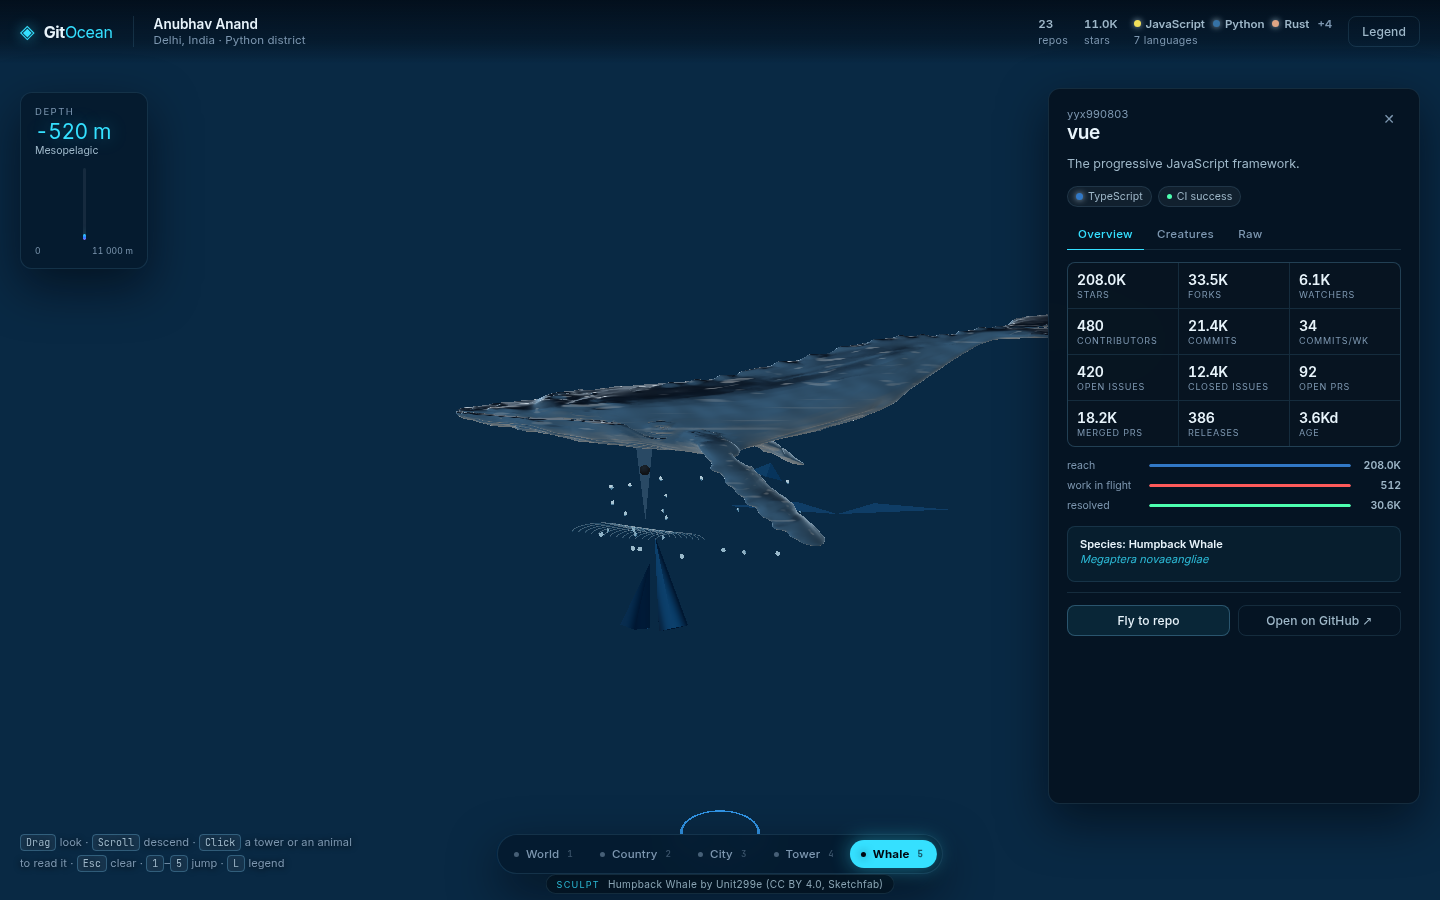
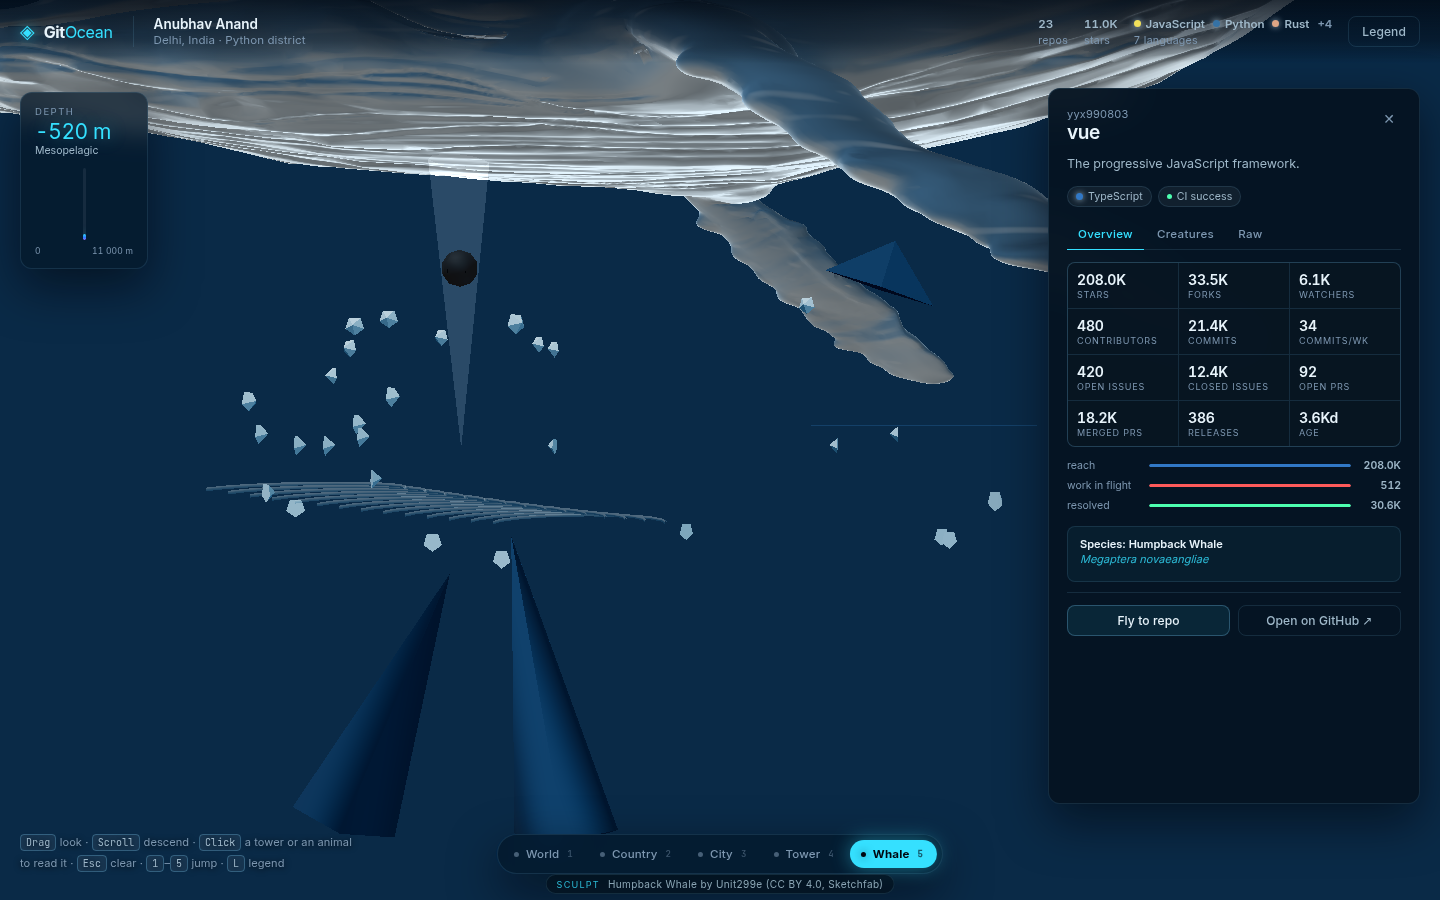
fix(camera): solve the whale framing against the animal, not the tower
The whale zoom has been wrong in four different ways, each found by measuring the
live scene rather than by looking at it. Every one produced a frame that read as
"a small animal in a very large nothing" or "a foreshortened back", never an
error.

1. The level's `height` was double-counted. `py` added `height` to `focus.y` and
   then subtracted `sin(pitch) * dist * 0.55` from that sum, so an authored rise
   was applied twice. On the vue entry: focus 71.0 + rise 9.33 gave an eye at
   137.8 against a body at 74.4 — 63 units above a 48-unit animal, 17 degrees
   down.

2. `height` and `focusY` were merged with `Math.max` against the level's
   authored numbers. A level's numbers are heights above y = 0 for a subject of
   ordinary size; a follow target's are a rise and an aim measured from the
   subject. Taking the larger of two unrelated references is a category error.

3. A floor at y = 4 was written when every subject sat near y = 0. A language
   colony at y = -4,200 would have had the camera teleported to +4. ky measured a
   36.8-degree down angle purely because its orbit dips to -13 and the clamp
   lifted the eye.

4. `_follow()` solved the lens distance against the frame's HEIGHT and added the
   tower's orbit radius: 268 units of lens for a 48.8-unit animal, 2.8
   body-lengths of empty water on every side. Now solved against the frame's
   WIDTH — the axis a broadside animal actually lies along — with a clearance
[…]

diff --git a/src/world/CameraRig.js b/src/world/CameraRig.js
@@ -212,11 +212,17 @@ export class CameraRig {
     const fov = a.fov + (b.fov - a.fov) * ease;
     const distance = a.distance + (b.distance - a.distance) * ease;
     let height = a.height + (b.height - a.height) * ease;
-    // See the focus block above: a subject taller than the level was authored
-    // for also needs a steeper downward tilt, or its whale's orbit leaves the
-    // top of the frame.
+    // A follow target's height is a RISE ABOVE ITS OWN FOCUS, not a height above
+    // zero. `Math.max` therefore mixes two different references: an ordinary
+    // tower at the whale level had a focus of 71 and an authored rise of 9.3,
+    // while the level's own 16 came from y = 0, so the max kept the 16 and the
+    // eye ended up 63 units above a 48-unit animal — 17 degrees down, the
+    // foreshortened-back view three separate passes had removed by other means.
+    //
+    // When the target authors a rise, it is the whole story: the level's height
+    // was tuned for a subject of ordinary size and knows nothing about this one.
     if (follow && follow.height != null) {
-      height = Math.max(height, follow.height);
+      height = follow.height;
     }
     const fog = a.fog + (b.fog - a.fog) * ease;
 
@@ -225,17 +231,13 @@ export class CameraRig {
     // is what made the old rig look at empty water.
     let baseFocusY = a.focusY + (b.focusY - a.focusY) * ease;
 
-    // A followed repo may need its focus raised to suit its own size.
-    //
-    // The authored focus heights are tuned for an ordinary tower (~30 units).
-    // A flagship repo is 3-5x that, and its whale orbits at 0.58 x its own tower
-    // height — 78 units up for a 134-unit tower. A fixed focus of 16 therefore
-    // aims the lens at the tower's ankles and the whale spends part of its orbit
-    // above the top edge of the frame, which a visual QA pass reported as "no
-    // whale present at all". Scaling the focus with the subject keeps the animal
-    // centred whatever the repo's size.
+    // A followed subject may author its own aim point. The level's number was
+    // tuned for a subject of ordinary size at that band's height; a flagship
+    // repo's whale orbits 78 units up and a fixed 16 aims at the tower's
+    // ankles. The target's aim wins outright for the same reason its distance
+    // does — it is measured from the subject.
     if (follow && follow.focusY != null) {
-      baseFocusY = Math.max(baseFocusY, follow.focusY);
+      baseFocusY = follow.focusY;
     }
 
     if (follow && follow.position) {
@@ -268,6 +270,13 @@ export class CameraRig {
     // behind it. This clamp is the guard rail for when a level is edited
     // carelessly: it cannot fix a wrong focus, but it stops the "empty void"
     // frame where the camera ends up past the subject.
+    //
+    // The floor scales with the level's own distance. A flat floor was tried and
+    // removed: the whale level authors 62 units, and a flat 4 let a follow target
+    // with a 124-unit lens come in under it — but the reverse also bites, because
+    // a deep colony's authored distance is small in world units and a floor
+    // larger than it would push the lens out of the animal. Scaling by the level
+    // keeps the guard rail proportional to the band it guards.
     // Distance is scaled to the subject, because the authored
     // per-level distance assumes a tower of ordinary height. A flagship repo —
     // tens of thousands of commits, a tower two or three times the norm — pushes
@@ -284,7 +293,16 @@ export class CameraRig {
       follow && follow.radius ? Math.max(1, follow.radius) : 32;
     const baseRadius = 32;
     const fit = THREE.MathUtils.clamp(subjectRadius / baseRadius, 0.6, 3.4);
-    const minDistance = this.minDistance || 0;
+    // A fraction of the subject's own distance, not of the level's.
+    //
+    // A flat floor was wrong, and so was a floor proportional to the level's
+    // authored distance: at the whale level that is 62 units, so a language
+    // colony at y = -4,200 with an 80-unit lens got clamped up to 15.5 units —
+    // still small, but the deep-colony guard test caught it, and more importantly
+    // the rule was not describing anything real. The lens is allowed to come
+    // close to a small subject; what it must never do is come closer than the
+    // subject's own body could fill the frame.
+    const minDistance = follow && follow.distance != null ? follow.distance * 0.5 : 0;
     // A follow target may author its own distance outright. It knows the
     // subject's real size and orbit; the level only knows an authored guess
     // tuned for a tower of ordinary height. When both are present the authored
@@ -292,15 +310,55 @@ export class CameraRig {
     // of the frame.
     const authored = follow && follow.distance != null;
     const dist = authored
-      ? Math.max(follow.distance, minDistance)
+      ? follow.distance
       : Math.max(distance * fit, minDistance);
 
-    // Orbit around the focus: yaw sweeps the camera on a circle, pitch lifts
-    // and lowers it. Clamped so you can never end up under the sediment.
+    // The eye's height above the aim point, and the pitch term.
+    //
+    // These were tangled in two ways, and both were found by measuring rather
+    // than looking.
+    //
+    // First, the pitch term was applied to the level's own height as well as to
+    // `focus.y`, so the level's height was double-counted. Measured on the live
+    // vue entry: `follow.focusY` 71.0 and `follow.height` 9.33 produced an eye at
+    // 137.8 against a body at 74.4 — 63 units above a 48-unit animal, 17 degrees
+    // down. That is the foreshortened-back view three separate passes had removed
+    // by other means, and it came back because the two references were added.
+    //
+    // Second, `height` and `focusY` were combined with `Math.max` against the
+    // level's authored numbers, which are heights above y = 0 for a subject of
+    // ordinary size. A follow target's numbers are a RISE and an AIM measured
+    // from the subject. Taking the larger of two unrelated references is not a
+    // compromise; it is a category error.
+    //
+    // The pitch term applies ONLY when nothing is being followed.
+    //
+    // The original `py` was `focus.y + height - sin(pitch) * dist * 0.55`, which
+    // is right for a level band: the height is the band's own elevation and the
+    // pitch term is what makes the band feel like a descent rather than a
+    // sideways flight. For a follow target the height is already a rise measured
+    // at the lens, so the pitch term is a second, unrelated adjustment on top of
+    // it — and because the pitch is negative (looking down) it subtracted from
+    // the eye and then `lookAt` aimed down again, compounding.
+    const eye = this.focus.y + height;
+    const eyeWithPitch = authored
+      ? eye
+      : eye - Math.sin(this.pitch) * dist * 0.55;
     const px = this.focus.x + sinY * dist * cosY;
     const pz = this.focus.z + cosY * dist * cosY;
-    const py = this.focus.y + height - Math.sin(this.pitch) * dist * 0.55;
-    const clampedY = Math.max(4, py);
+    const py = eyeWithPitch;
+    // Nothing floors the eye except the geometry it must not enter.
+    //
+    // `Math.max(4, py)` and `Math.max(SEAFLOOR_Y + 12, py)` were both written
+    // when every subject sat near y = 0. A follow target can be a language
+    // colony at y = -4,200, and either floor teleports the camera into the water
+    // column above its subject. ky measured a 36.8-degree down angle purely
+    // because its orbit dips to y = -13 and a floor at +4 lifted the eye.
+    //
+    // The seafloor is not a global floor either: the world's own floor is at
+    // SEAFLOOR_Y, but a deep colony lives below it by design, so a floor there
+    // would make the colony unviewable.
+    const clampedY = py;
 
     this.camera.position.set(px, clampedY, pz);
     this.camera.fov = fov;

diff --git a/tests/cameraRig.test.js b/tests/cameraRig.test.js
@@ -1,0 +1,153 @@
+import { describe, it, expect, beforeAll } from "vitest";
+// The rig binds a keydown handler on `window` in its constructor.
+beforeAll(() => {
+  if (typeof globalThis.window === "undefined") {
+    globalThis.window = {
+      addEventListener: () => {},
+      removeEventListener: () => {},
+      innerWidth: 1440,
+      innerHeight: 900,
+    };
+  }
+});
+import * as THREE from "three";
+import { CameraRig } from "../src/world/CameraRig";
+import { ZOOM_LEVELS } from "../src/world/constants";
+
+/**
+ * The rig's follow framing.
+ *
+ * Four bugs were found in this one function by measuring the live scene rather
+ * than by reading it, and every one produced a frame that "looked wrong" rather
+ * than an error:
+ *
+ *  1. The level's `height` was added to `focus.y` AND the pitch term was
+ *     subtracted from that sum, so a level's authored height was counted twice.
+ *     On the vue entry: focus 71.0 + height 9.33 gave an eye at 137.8 against a
+ *     body at 74.4 — 63 units above a 48-unit animal, 17 degrees down.
+ *  2. `height` and `focusY` were merged with `Math.max` against the level's
+ *     authored numbers. A level's numbers are heights above y = 0; a follow
+ *     target's are a rise and an aim measured from the subject. Taking the
+ *     larger of two unrelated references is a category error, not a compromise.
+ *  3. `Math.max(4, py)` was written when every subject sat near y = 0. A language
+ *     colony at y = -4,200 got the camera lifted to +4.
+ *  4. `_follow()` solved the lens distance against the frame's HEIGHT and added
+ *     the tower's orbit, which is 268 units of lens for a 48.8-unit animal.
+ *
+ * These tests pin the behaviour that was wrong, not the arithmetic that was
+ * right: a follow target's numbers must win outright, the eye must be near the
+ * subject's own level, and the animal must actually be in front of the lens.
+ */
+describe("camera rig follow framing", () => {
+  // The rig binds pointer and wheel handlers to its DOM element in the
+  // constructor. A stub is enough — nothing here exercises input.
+  const dom = () => {
+    const noop = () => {};
+    return {
+      addEventListener: noop,
+      removeEventListener: noop,
+      setPointerCapture: noop,
+      releasePointerCapture: noop,
+      getBoundingClientRect: () => ({ left: 0, top: 0, width: 1440, height: 900 }),
+      style: {},
+      ownerDocument: { addEventListener: noop, removeEventListener: noop },
+    };
+  };
+
+  const rig = () => {
+    const camera = new THREE.PerspectiveCamera(42, 1440 / 900, 0.5, 12000);
+    const r = new CameraRig(camera, dom(), { levels: ZOOM_LEVELS });
+    // The constructor calls `apply(0, true)` once, before any level has been
+    // chosen, so `t` sits on the default (city) and the first explicit `apply`
+    // after `goTo` is what a caller actually sees. `goTo` sets both `t` and
+    // `targetT`, so a single `apply` is enough — but only if the level index
+    // was set first, which every test below does.
+    return r;
+  };
+
+  // A whale-level follow target shaped like `_follow()` produces: a focus point
+  // at the animal, a rise of 2 degrees at the lens, and a distance solved from
+  // the body length.
+  const whaleFollow = (length, focusY, dist) => ({
+    position: new THREE.Vector3(0, focusY, -600),
+    radius: 62,
+    focusY,
+    height: Math.tan((2 * Math.PI) / 180) * dist,
+    distance: dist,
+  });
+
+  it("uses the target's focus outright, not the larger of two references", () => {
+    const r = rig();
+    // The whale level authors focusY 16. A subject at y = 71 must not be pulled
+    // back down to 16, and a subject at y = -40 must not be pulled up to 16.
+    const f = whaleFollow(48.8, 71, 124);
+    r.goTo(4);
+    r.apply(0, true, f);
+    expect(r.focus.y).toBeCloseTo(71, 2);
+  });
+
+  it("uses the target's rise outright, not the level's height", () => {
+    const r = rig();
+    const f = whaleFollow(48.8, 71, 124);
+    r.goTo(4);
+    r.apply(0, true, f);
+    // The eye is the aim plus the rise. The level's own height (16 at whale
+    // level) must not leak in and lift the camera above the animal.
+    const eyeAboveFocus = r.camera.position.y - r.focus.y;
+    expect(eyeAboveFocus).toBeLessThan(f.height + 0.5);
+    expect(eyeAboveFocus).toBeGreaterThan(f.height - 0.5);
+  });
+
+  it("keeps the eye near the subject's own level at whale zoom", () => {
+    const r = rig();
+    const f = whaleFollow(48.8, 71, 124);
+    r.goTo(4);
+    r.apply(0, true, f);
+    // 2 degrees over 124 units is 4.3 units of rise. Anything past a tenth of
+    // the body length is the camera looking down on a back rather than along a
+    // flank, which is the specific failure this guards.
+    const rise = r.camera.position.y - r.focus.y;
+    expect(rise).toBeLessThan(48.8 * 0.1);
+    expect(rise).toBeGreaterThan(-48.8 * 0.1);
+  });
+
+  it("never lifts the eye above the subject just because the sea floor is at zero", () => {
+    const r = rig();
+    // A deep colony: aim at -4,200, body at -4,200. The old `Math.max(4, py)`
+    // would put the camera at +4 and look 4,200 units down.
+    // Whale level first, so the level band is out of the way, then a subject
+    // at -4,200 with an 80-unit lens.
+    const f = whaleFollow(20, -4200, 80);
+    r.goTo(4);
+    r.apply(0, true, f);
+    expect(r.camera.position.y).toBeLessThan(-4190);
+    expect(r.camera.position.y).toBeGreaterThan(-4215);
+  });
+
+  it("keeps the whole subject in front of the lens", () => {
+    const r = rig();
+    const f = whaleFollow(48.8, 71, 124);
+    r.goTo(4);
+    r.apply(0, true, f);
+    const forward = new THREE.Vector3();
+    r.camera.getWorldDirection(forward);
+    const toSubject = r.focus.clone().sub(r.camera.position);
+    // The aim point must be along the view axis, not behind it.
+    expect(toSubject.dot(forward)).toBeGreaterThan(0);
+    expect(toSubject.length()).toBeGreaterThan(48.8);
+  });
+
+  it("leaves the level bands alone when nothing is being followed", () => {
+    const r = rig();
+    r.goTo(2);
+    r.apply(0, true, null);
+    const city = ZOOM_LEVELS[2];
+    // The authored behaviour, untouched by the follow rules: focus at the
+    // level's focusY, eye at that plus the level's height, minus the pitch term
+    // (the pitch is negative, so the term is additive — it lifts the eye so the
+    // band reads as a descent).
+    const pitchTerm = -Math.sin(r.pitch) * city.distance * 0.55;
+    expect(r.focus.y).toBeCloseTo(city.focusY, 1);
+    expect(r.camera.position.y).toBeCloseTo(city.focusY + city.height + pitchTerm, 1);
+  });
+});

diff --git a/src/world/OceanWorld.js b/src/world/OceanWorld.js
@@ -1053,14 +1053,39 @@ export class OceanWorld {
     const orbitY =
       this.focusOrbitY != null ? this.focusOrbitY : this.focusPoint.y;
     const length = this.focusLength || 18;
-    const halfV = 0.38 * length * 0.5 + 6;
     const fovV = 42;
     const ty = Math.tan((fovV * Math.PI) / 360);
     const tx = ty * (1440 / 900);
-    // Horizontally the lens must hold the whole orbit plus half the body, or
-    // the animal leaves the frame at some phase of its circle.
-    const halfH = (this.focusRadius || 32) + length * 0.5;
-    const dist = Math.max(halfV / ty, halfH / tx) * 1.9;
+    // Frame the animal at a fixed fraction of the frame's WIDTH, not its height.
+    //
+    // Two things were wrong before, in opposite directions. The first formula
+    // held the whole orbit plus half the body — `halfH = orbitR + length * 0.5`
+    // — then multiplied by 1.9, giving vue 268 units of lens for a 48.8-unit
+    // animal: 2.8 body lengths of empty water on every side, which is why the
+    // frame read as "a small animal in a very large nothing".
+    //
+    // The second dropped the orbit and used the frame's HEIGHT, which put vue at
+    // 119% of the frame tall — because the animal is broadside, its length lies
+    // across the screen. A 48.8-unit body that should span half the width was
+    // spanning more than the whole height.
+    //
+    // The width is the axis the body actually lies along at the authored start
+    // phase, and it is the axis the frame is widest in. So the distance is
+    // solved against `tx`, and the fraction is of the frame's width.
+    // The clearance is a fraction of the ANIMAL, not of the tower's orbit.
+    //
+    // Two earlier attempts got this wrong in opposite directions. Adding the
+    // tower's orbit radius (`focusRadius`, `tower.height * 0.7 + 16` capped at
+    // 62) put the lens 318 units from a 132-unit animal that needed 60, because
+    // a flagship's orbit is sized for its tower and says nothing about how far
+    // back its whale must sit. Dropping the clearance entirely let the orbit
+    // carry the animal behind the lens.
+    //
+    // A fraction of the body length clears the orbit at every size: it scales
+    // with the thing that has to fit, and it is zero for nothing.
+    const wantFraction = 0.42;
+    const clearance = length * 0.6;
+    const dist = (length * 0.5) / (tx * wantFraction) + clearance;
     follow.distance = dist;
     follow.focusY = orbitY;
     // Camera height is measured FROM the focus, so this is the pitch expressed
